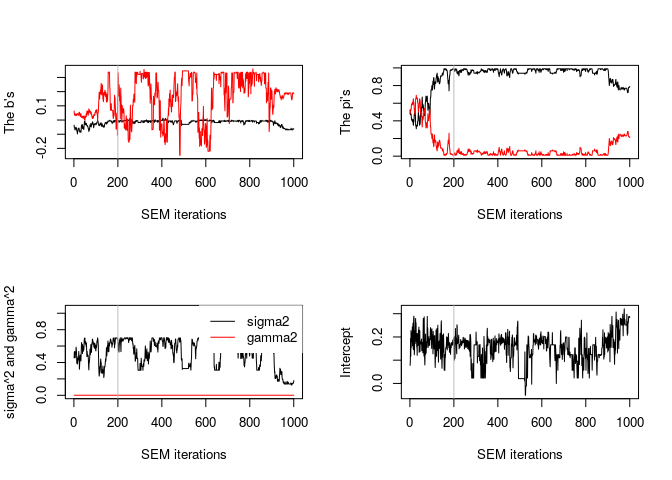
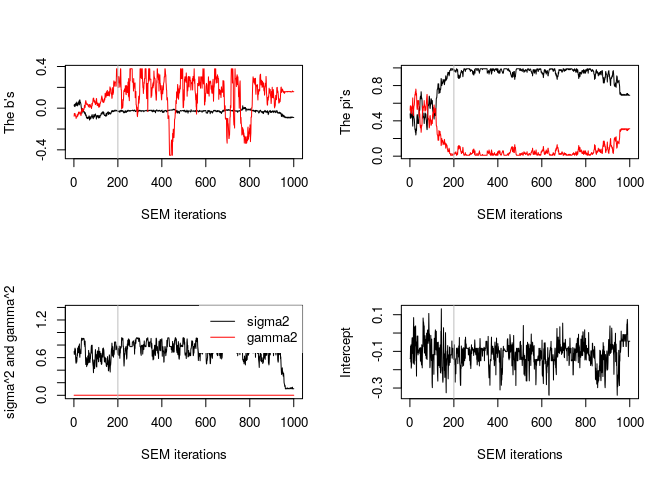
remove extra spaces between badges

diff --git a/README.md b/README.md
@@ -7,7 +7,6 @@
 
 [![GitHub
 tag](https://img.shields.io/github/tag/mcanouil/clere.svg?label=latest%20tag&include_prereleases)](https://github.com/mcanouil/clere)
-<!--[![R build status](https://github.com/mcanouil/clere/workflows/R-CMD-check/badge.svg)](https://github.com/mcanouil/clere) -->
 [![Travis build
 status](https://travis-ci.org/mcanouil/clere.svg?branch=master)](https://travis-ci.org/mcanouil/clere)
 [![Codecov test
@@ -60,16 +59,14 @@ plot(model)
 clus <- clusters(model, threshold = NULL)
 
 predict(model, newx = x + 1)
-#>  [1] -0.226990413 -0.367355140 -0.255667160  0.032419788 -0.316026392
-#>  [6] -0.265532735  0.286586265 -0.275551425 -0.036831906 -0.554448668
-#> [11] -0.408768005 -0.561727492 -0.370542067 -0.470894274 -0.432943391
-#> [16] -0.335287950 -0.174588139 -0.029232672  0.005610423 -0.611206791
-#> [21] -0.275466486 -0.259589627 -0.332600587  0.167858025 -0.217049025
-#> [26] -0.071923552 -0.627631370  0.154203353 -0.183276763 -0.300908075
-#> [31] -0.036355831 -0.082530340 -0.049487919 -0.577106038  0.030149007
-#> [36] -0.240568778 -0.796652931  0.023857951 -0.617659793 -0.261742827
-#> [41] -0.158292778  0.043607008 -0.175046771 -0.161962684 -0.563037866
-#> [46] -0.303082397 -0.278208154  0.022775518 -0.263151084 -0.540273887
+#>  [1] -2.248074 -1.667946 -2.564603 -2.322686 -2.146800 -2.731106 -1.879365
+#>  [8] -1.723753 -1.954611 -2.545467 -2.205097 -2.140736 -2.521094 -2.202527
+#> [15] -2.223530 -2.223775 -1.855354 -2.534526 -2.421933 -2.689368 -1.958564
+#> [22] -2.292591 -2.582824 -2.047417 -2.382838 -2.472853 -1.986692 -1.616346
+#> [29] -1.862622 -2.169925 -2.015309 -2.823941 -2.213763 -1.892718 -1.795760
+#> [36] -2.608715 -2.290566 -1.883511 -2.094326 -2.782703 -2.221372 -2.210142
+#> [43] -2.091592 -1.885056 -2.232634 -1.910852 -2.505023 -2.362700 -2.378800
+#> [50] -2.094525
 
 summary(model)
 #>  -------------------------------
@@ -80,18 +77,18 @@ summary(model)
 #> 
 #>  ---
 #>  Estimated parameters using SEM algorithm are
-#>  intercept = 0.1519
-#>  b         = -0.01392     0.17814
-#>  pi        = 0.94764 0.05236
-#>  sigma2    = 0.5235
-#>  gamma2    = 2.802e-05
+#>  intercept = -0.1163
+#>  b         = -0.03096     0.13806
+#>  pi        = 0.9411  0.0589
+#>  sigma2    = 0.7122
+#>  gamma2    = 5.72e-05
 #> 
 #>  ---
-#>  Log-likelihood =  -71.29 
-#>  Entropy        =  13.484 
-#>  AIC            =  154.58 
-#>  BIC            =  166.05 
-#>  ICL            =  179.53
+#>  Log-likelihood =  -79.46 
+#>  Entropy        =  18.009 
+#>  AIC            =  170.92 
+#>  BIC            =  182.39 
+#>  ICL            =  200.4
 ```
 
 ## Citing clere
